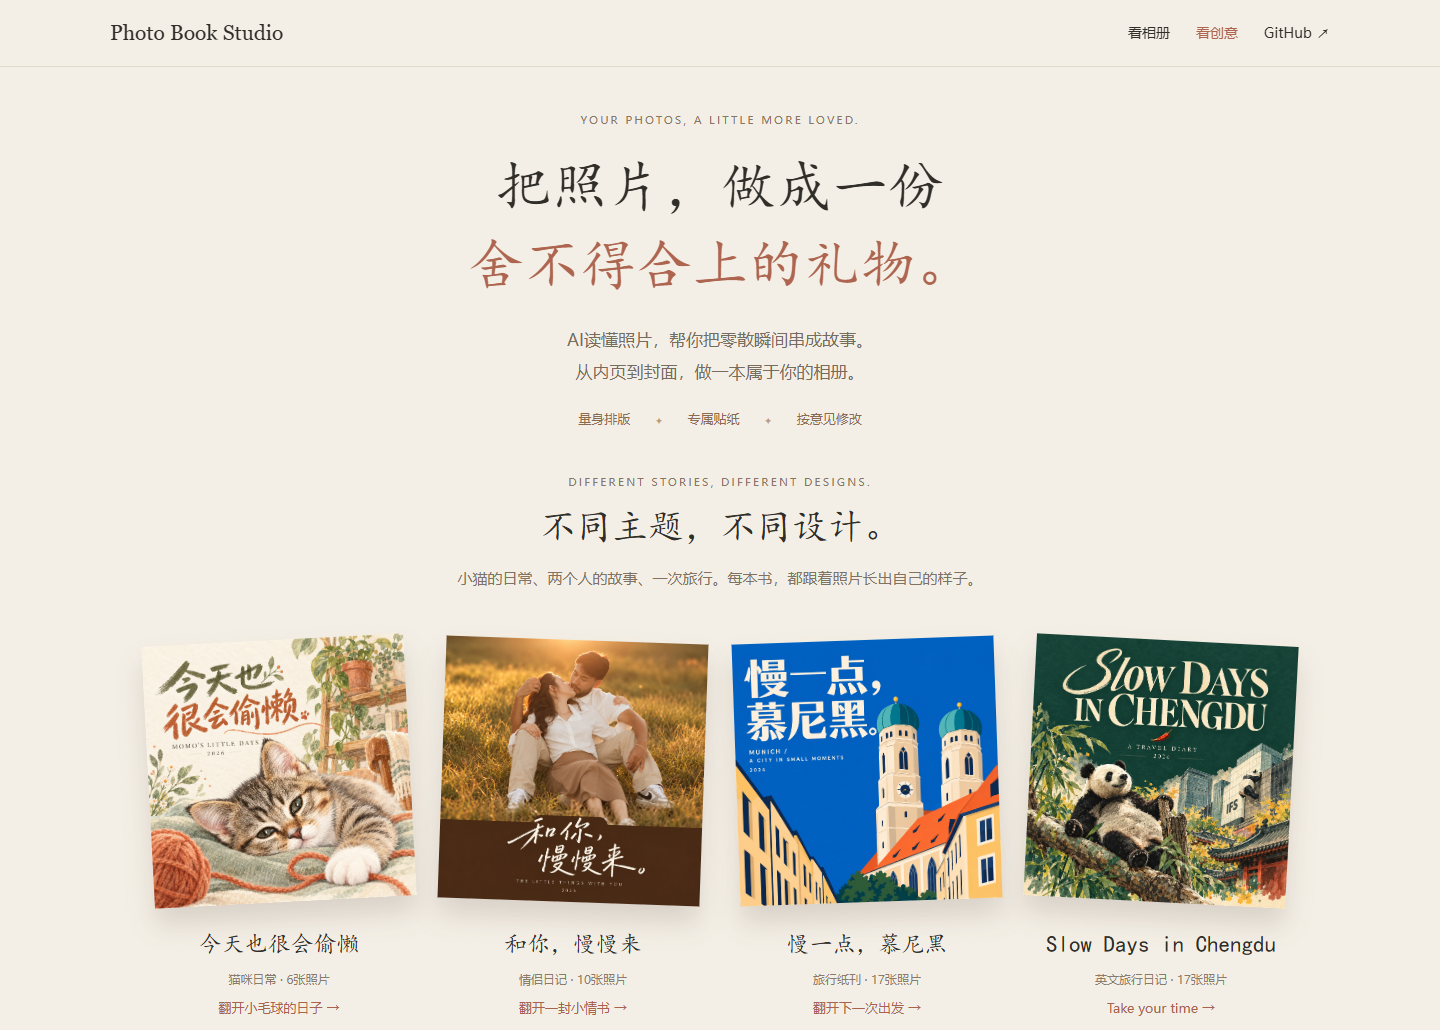
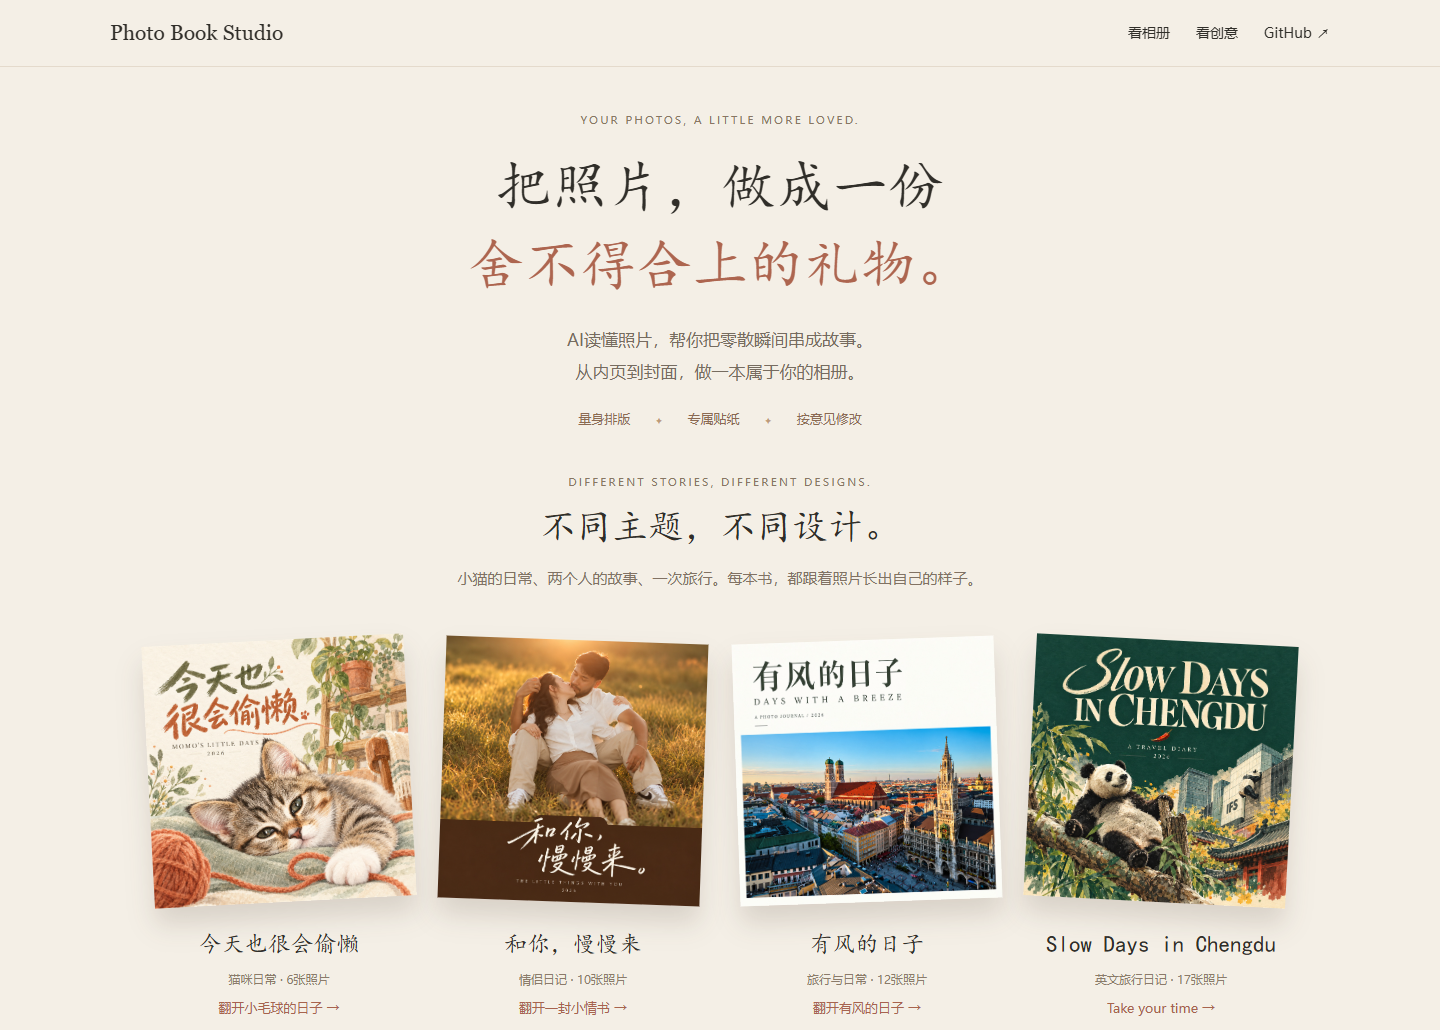
Learn photographic narrative layouts from reviewed source-fit examples

Changed region(s): [[0.5, 0.5903, 0.7188, 0.9942]]

diff --git a/docs/index.html b/docs/index.html
@@ -7,7 +7,7 @@
 @media(prefers-reduced-motion:reduce){html{scroll-behavior:auto}.book{transition:none}}
 </style></head><body><div class="header-wrap"><header><a class="brand" href="#top">Photo Book Studio</a><nav class="nav" aria-label="主导航"><a href="#books">看相册</a><a href="#creativity">看创意</a><a href="https://github.com/strivekboy-coder/photo-book-studio">GitHub ↗</a></nav></header></div><main id="top">
 <section class="hero"><div class="eyebrow">YOUR PHOTOS, A LITTLE MORE LOVED.</div><h1>把照片，做成一份<br><em>舍不得合上的礼物。</em></h1><p>AI读懂照片，帮你把零散瞬间串成故事。<br>从内页到封面，做一本属于你的相册。</p><div class="promises"><span>量身排版</span><span>专属贴纸</span><span>按意见修改</span></div></section>
-<section class="section books" id="books"><div class="eyebrow">DIFFERENT STORIES, DIFFERENT DESIGNS.</div><h2>不同主题，不同设计。</h2><p class="intro">小猫的日常、两个人的故事、一次旅行。每本书，都跟着照片长出自己的样子。</p><div class="shelf"><a class="book" href="showcase/cat/index.html"><img src="showcase/cat/cover.jpg" alt="今天也很会偷懒：猫咪相册封面"><h2>今天也很会偷懒</h2><small>猫咪日常 · 6张照片</small><span class="open">翻开小毛球的日子 →</span></a><a class="book" href="showcase/couple/index.html"><img src="showcase/couple/cover.jpg" alt="和你慢慢来：情侣相册封面"><h2>和你，慢慢来</h2><small>情侣日记 · 10张照片</small><span class="open">翻开一封小情书 →</span></a><a class="book" href="showcase/munich/index.html"><img src="showcase/munich/cover.jpg" alt="慢一点慕尼黑：旅行相册封面"><h2>慢一点，慕尼黑</h2><small>旅行纸刊 · 17张照片</small><span class="open">翻开下一次出发 →</span></a><a class="book" href="showcase/chengdu/index.html"><img src="showcase/chengdu/cover.jpg" alt="Slow Days in Chengdu：英文成都旅行日记封面"><h2>Slow Days in Chengdu</h2><small>英文旅行日记 · 17张照片</small><span class="open">Take your time →</span></a></div></section><div class="divider"></div>
+<section class="section books" id="books"><div class="eyebrow">DIFFERENT STORIES, DIFFERENT DESIGNS.</div><h2>不同主题，不同设计。</h2><p class="intro">小猫的日常、两个人的故事、一次旅行。每本书，都跟着照片长出自己的样子。</p><div class="shelf"><a class="book" href="showcase/cat/index.html"><img src="showcase/cat/cover.jpg" alt="今天也很会偷懒：猫咪相册封面"><h2>今天也很会偷懒</h2><small>猫咪日常 · 6张照片</small><span class="open">翻开小毛球的日子 →</span></a><a class="book" href="showcase/couple/index.html"><img src="showcase/couple/cover.jpg" alt="和你慢慢来：情侣相册封面"><h2>和你，慢慢来</h2><small>情侣日记 · 10张照片</small><span class="open">翻开一封小情书 →</span></a><a class="book" href="showcase/photographic-story/"><img src="showcase/photographic-story/cover.jpg" alt="有风的日子：摄影叙事相册封面"><h2>有风的日子</h2><small>旅行与日常 · 12张照片</small><span class="open">翻开有风的日子 →</span></a><a class="book" href="showcase/chengdu/index.html"><img src="showcase/chengdu/cover.jpg" alt="Slow Days in Chengdu：英文成都旅行日记封面"><h2>Slow Days in Chengdu</h2><small>英文旅行日记 · 17张照片</small><span class="open">Take your time →</span></a></div></section><div class="divider"></div>
 <section class="section zine-section" id="zine-studies"><div class="eyebrow">SAME PHOTOS, A DIFFERENT FEELING.</div><h2>同样的照片，换一种喜欢。</h2><p class="intro zine-caption">告诉AI你喜欢的风格，重新设计同一组照片。<br>12张照片，三种示范。风格由你来定。</p><div class="zine-grid"><a class="zine-card" href="showcase/zine-editorial/"><img class="zine-cover" src="showcase/zine-editorial/cover.jpg" alt="拾起日常封面" loading="lazy"><div class="zine-name"><span>极简编辑式</span><h3>拾起日常</h3></div><img class="zine-preview" src="showcase/zine-editorial/spread-03.jpg?v=050" alt="极简编辑式内页" loading="lazy"><span class="open">翻开这本 →</span></a><a class="zine-card" href="showcase/zine-collage/"><img class="zine-cover" src="showcase/zine-collage/cover.jpg" alt="把日子晒出来封面" loading="lazy"><div class="zine-name"><span>高饱和拼贴</span><h3>把日子晒出来</h3></div><img class="zine-preview" src="showcase/zine-collage/spread-04.jpg?v=050" alt="高饱和拼贴内页" loading="lazy"><span class="open">翻开这本 →</span></a><a class="zine-card" href="showcase/zine-handmade/"><img class="zine-cover" src="showcase/zine-handmade/cover.jpg" alt="把日常贴起来封面" loading="lazy"><div class="zine-name"><span>纸感手作</span><h3>把日常贴起来</h3></div><img class="zine-preview" src="showcase/zine-handmade/spread-04.jpg?v=050" alt="纸感手作内页" loading="lazy"><span class="open">翻开这本 →</span></a></div></section><div class="divider"></div>
 <section class="section creativity" id="creativity"><div class="section-heading"><div class="eyebrow">LITTLE DETAILS, MADE FOR YOUR PHOTOS.</div><h2>看看照片，还能长出什么。</h2><p class="intro">文案、贴纸、插画与背景，都从照片里的小事开始。</p></div>
 <div class="work"><aside class="annotation cat-note">专属贴纸，<br>AI看图就会画。<small>小猫、咖啡、旅行小物……<br>不用逐张交代。</small><img class="cat-sticker" src="assets/cat-note.png" alt="从猫咪照片衍生的可爱贴纸"><svg class="note-arrow" viewBox="0 0 130 64" aria-hidden="true"><path d="M8 10 C48 54 73 5 116 45 M98 40 L116 45 L111 28" fill="none" stroke="currentColor" stroke-width="2.2" stroke-linecap="round" stroke-linejoin="round"/></svg></aside><a class="work-image" href="showcase/cat/?page=2"><img src="showcase/cat/spread-03.jpg" alt="喵生大事：猫咪照片与专属手绘贴纸" loading="lazy"></a><div class="spacer"></div><div class="work-caption">一个哈欠，一次巡逻，也值得认真留一页。</div></div>

diff --git a/docs/showcase/photographic-story/index.html b/docs/showcase/photographic-story/index.html
@@ -1,0 +1,3 @@
+<!doctype html><html lang="zh-CN"><head><meta charset="utf-8"><meta name="viewport" content="width=device-width,initial-scale=1"><title>有风的日子 · Photo Book Studio</title><style>
+*{box-sizing:border-box}body{margin:0;background:#e9e3d9;color:#3a3832;font-family:system-ui,"Microsoft YaHei",sans-serif}header{display:flex;align-items:center;justify-content:space-between;gap:16px;padding:18px 5%;font-size:14px}a{color:inherit;text-decoration:none}.brand{font-family:Georgia,serif;letter-spacing:.06em}.title{font-size:15px}main{padding:24px 20px;min-height:70vh;display:grid;place-items:center}.sheet{width:min(1200px,100%);aspect-ratio:2;position:relative;overflow:hidden;background:#f5f0e7;box-shadow:0 18px 70px #463b3429}.sheet.cover{width:min(580px,100%);aspect-ratio:1}.sheet img{display:block;width:100%;height:100%;object-fit:contain}nav{display:flex;justify-content:center;align-items:center;gap:20px;padding:12px 20px 30px}button{background:#f7f1e7;border:1px solid #c8bbaa;border-radius:30px;padding:12px 21px;color:#4a4238;cursor:pointer;font-size:16px}button:disabled{opacity:.3;cursor:default}#counter{font-size:13px;min-width:110px;text-align:center}footer{max-width:880px;margin:0 auto;padding:0 24px 35px;font-size:12px;line-height:1.8;color:#7b7368;text-align:center}.mobile-help{display:none}@media(max-width:700px){header{flex-wrap:wrap}.sheet:not(.cover){aspect-ratio:1}.sheet:not(.cover) img{width:200%;max-width:none;object-fit:fill}.sheet.right img{transform:translateX(-50%)}main{min-height:0;padding:20px 12px}nav{gap:10px}.title{width:100%;font-size:19px}.mobile-help{display:block;font-size:12px;text-align:center;color:#837566}}button:focus-visible,a:focus-visible{outline:2px solid #ae6550;outline-offset:4px}</style></head><body><header><a class="brand" href="../../index.html">← PHOTO BOOK STUDIO</a><span class="title">有风的日子</span><a href="https://github.com/strivekboy-coder/photo-book-studio">GitHub ↗</a></header><main><div class="sheet cover" id="sheet"><img id="image" src="cover.jpg" alt="相册封面"></div></main><div class="mobile-help">手机上按单页阅读；点箭头，也可以左右滑动。</div><nav><button id="prev" aria-label="上一页">←</button><span id="counter"></span><button id="next" aria-label="下一页">→</button></nav><footer>效果展示相册，非真实用户故事；人物／动物关系、日期与文案为策展设定。摄影素材来自 Unsplash（含授权素材）及用户提供的授权图库。图片与相册成品仅供项目效果展示，不属于代码的 MIT 许可范围；未经许可请勿转载。<br><a href="https://github.com/strivekboy-coder/photo-book-studio/blob/codex/initial-release/examples/README.md">素材与许可说明</a></footer><script>
+const album={"title": "有风的日子", "description": "旅行与日常的摄影叙事：跨页场景、浮动插图和留白", "selectedPhotos": 12, "viewerSpreads": 5, "pages": ["spread-02.jpg", "spread-03.jpg", "spread-04.jpg", "spread-05.jpg"], "cover": "cover.jpg"};const query=new URLSearchParams(location.search);let page=Math.max(0,Math.min(album.pages.length,Number(query.get('page'))||0)),side=page>0&&query.get('side')==='right'?1:0;const media=matchMedia('(max-width:700px)');const sheet=document.getElementById('sheet'),image=document.getElementById('image');function draw(){sheet.className='sheet'+(page===0?' cover':'')+(side?' right':'');image.src=page===0?album.cover:album.pages[page-1];image.alt=page===0?album.title+'封面':album.title+' 第'+page+'跨页';document.getElementById('counter').textContent=page===0?'封面':page+' / '+album.pages.length+(media.matches?(side?' · 右页':' · 左页'):'');document.getElementById('prev').disabled=page===0;document.getElementById('next').disabled=page===album.pages.length&&(!media.matches||side===1);const upcoming=album.pages[page];if(upcoming){const img=new Image();img.src=upcoming;}}function move(delta){if(media.matches){let leaf=page===0?0:1+(page-1)*2+side;leaf=Math.max(0,Math.min(album.pages.length*2,leaf+delta));page=leaf===0?0:1+Math.floor((leaf-1)/2);side=leaf===0?0:(leaf-1)%2;}else{page=Math.max(0,Math.min(album.pages.length,page+delta));side=0;}draw();}document.getElementById('prev').onclick=()=>move(-1);document.getElementById('next').onclick=()=>move(1);document.addEventListener('keydown',e=>{if(e.key==='ArrowLeft')move(-1);if(e.key==='ArrowRight'||e.key===' ') {e.preventDefault();move(1);}});media.addEventListener('change',()=>{side=0;draw();});let touchX=null;sheet.addEventListener('touchstart',e=>touchX=e.changedTouches[0].clientX,{passive:true});sheet.addEventListener('touchend',e=>{if(touchX!==null){const d=e.changedTouches[0].clientX-touchX;if(Math.abs(d)>45)move(d<0?1:-1);}touchX=null;},{passive:true});draw();</script></body></html>

diff --git a/skills/photo-book-studio/references/photographic-layouts.md b/skills/photo-book-studio/references/photographic-layouts.md
@@ -1,0 +1,35 @@
+# Photographic narrative and spatial relationships
+
+Read for a calm photographic book, a photo-led magazine, or a reference built around panoramic anchors, floating insets, support columns and quiet text fields. These relationships also work in travel, couple and family books; this is not an exclusive theme or required zine direction.
+
+## Read the reference
+
+Gray image placeholders, upload arrows, dotted gutter guides and example captions are tutorial instructions, not decorations to copy into the finished book. Extract visual relationships and recompose with the user's source geometry and story. Do not inherit weddings, places or emotional facts from example copy.
+
+## Useful relationships
+
+- **Panoramic scene with a floating inset:** a scene anchors both pages; a bordered image bridges a quiet region and the scene. The inset adds action, time or a detail rather than merely repeating the background. Keep it clear of faces, landmarks and the physical gutter. A thin border separates tones; a stronger border can imply a collected print.
+- **Environmental hero opposite a compact detail group:** give the place or moment enough scale, then connect two or three details with shared edges or an intentional rhythm. The support field needs whitespace. Important portraits must not shrink into miniature slots to imitate a reference.
+- **Narrow photo column and a large photograph:** repeated small frames establish a reading path beside a hero and a separate text pocket. Adapt the number/proportions to content; rotate the relationship or add another spread when subjects cannot remain legible.
+- **Photo opposite quiet text:** a complete intimate image may need no stickers or companion frames. Use a modest title and readable paragraphs; long copy can become a dedicated letter page. Empty space supplies pacing.
+- **Quiet overlapping panels:** layering can feel natural in a clean book. Let a meaningful edge/overlap connect the panels while one remains dominant. Avoid unnecessary masks, rotation and heavy shadows.
+
+## Geometry decides suitability
+
+A cross-page slot is usually much wider than an ordinary landscape photograph; portraits rarely suit panoramas. Inspect the actual crop: environment, rooflines, gestures and people must remain meaningful. Adjust field height, crop position and inset position together. Filling the CSS frame proves nothing. If landmark and foreground cannot both survive, choose a taller field, another eligible source or a different composition. Never invent missing image area without permission.
+
+Use the existing spread.backgroundPhoto contract with exactly one backgroundOnly source entry. Insets keep their own selected IDs; repeated rendering is not implied. Field heights/masking need explicit workspace CSS; unknown JSON fields do not automatically work. Sources remain read-only. Center seams/trim need a separate print review; a successful browser sample is not printer approval.
+
+## Type and pacing
+
+Give titles, supporting remarks and factual notes separate roles. Centering can create a pause; side text can preserve a tall portrait. Use separate notes for long or equally ranked sentences where caption newlines would shrink later lines. Keep readable size and avoid lone final characters. Serif or sans systems are both valid; decorative English metadata is optional.
+
+An open portrait, scene with inset, detail cluster and quiet pause are available operations, not a compulsory sequence. Choose from actual aspect ratio, visual mass, source resolution and importance.
+
+## Worked study and review
+
+The independently recomposed [有风的日子 study](https://strivekboy-coder.github.io/photo-book-studio/showcase/photographic-story/) uses 12 previously authorized stock photographs, each once, across four body spreads. The initial panorama cut away too much river; increasing field height and adjusting crop retained church rooflines and river context. Its inset avoids the skyline. Figures use contain rather than destructive crops; supporting photographs leave an independent text field.
+
+Review scene completeness, inset obstruction, primary/secondary scale, reading path, empty-space purpose, body text and gutter safety. Judge source-fit before approving a reference effect. This is a same-agent worked example, not proof of independent-model performance.
+
+Reference: seven screenshots supplied by the user on 2026-10-07. Author/source unidentified. No screenshot, template file, photograph or caption from that reference is redistributed; guidance and sample layouts are independently authored from spatial relationships.

diff --git a/README.md b/README.md
@@ -10,14 +10,16 @@ AI读懂照片，把零散瞬间串成故事。结合画面里的细节与你提
 
 ## 先翻四本小书
 
-| 猫咪日常 | 情侣日记 | 慕尼黑纸刊 | 成都英文日记 |
+| 猫咪日常 | 情侣日记 | 摄影叙事 | 成都英文日记 |
 |---|---|---|---|
-| [今天也很会偷懒](https://strivekboy-coder.github.io/photo-book-studio/showcase/cat/) | [和你，慢慢来](https://strivekboy-coder.github.io/photo-book-studio/showcase/couple/) | [慢一点，慕尼黑](https://strivekboy-coder.github.io/photo-book-studio/showcase/munich/) | [Slow Days in Chengdu](https://strivekboy-coder.github.io/photo-book-studio/showcase/chengdu/) |
-| 6张照片，把家变软。 | 10张照片，把日常写成情书。 | 17张照片，把风景装进口袋。 | 17张照片，英文记录慢旅行。 |
+| [今天也很会偷懒](https://strivekboy-coder.github.io/photo-book-studio/showcase/cat/) | [和你，慢慢来](https://strivekboy-coder.github.io/photo-book-studio/showcase/couple/) | [有风的日子](https://strivekboy-coder.github.io/photo-book-studio/showcase/photographic-story/) | [Slow Days in Chengdu](https://strivekboy-coder.github.io/photo-book-studio/showcase/chengdu/) |
+| 6张照片，把家变软。 | 10张照片，把日常写成情书。 | 12张照片，用场景、细节与留白讲故事。 | 17张照片，英文记录慢旅行。 |
 
 ![猫咪相册内页：哈欠、巡逻与手绘贴纸](docs/showcase/cat/spread-03.jpg)
 
 ![情侣相册内页：回家的路与金色拥抱](docs/showcase/couple/spread-04.jpg)
+
+[![摄影叙事：跨页河景与浮动照片](docs/showcase/photographic-story/spread-03.jpg)](https://strivekboy-coder.github.io/photo-book-studio/showcase/photographic-story/?page=2)
 
 ## 同样的照片，三种 zine
 

diff --git a/skills/photo-book-studio/SKILL.md b/skills/photo-book-studio/SKILL.md
@@ -61,6 +61,8 @@ Separate subject/story, visual direction and creative treatments. A couple book 
 
 For a zine request or reference, read [zine design language](references/zine-design.md) before composing. Editorial/minimal, saturated graphic collage and tactile handmade are three worked examples, not a closed menu. Resolve the intended direction from the brief; ask a short choice only if unresolved. Save the direction in brief.visual. The bundled role-based recipes are optional starting points. This ordinary zine composition is separate from the four optional image transformations; textures, stickers and generated art may be unnecessary.
 
+For a photographic journal or a reference using panoramic anchors, floating insets, support columns or quiet text fields, read [photographic narrative layouts](references/photographic-layouts.md). These relationships work across themes and do not force a zine aesthetic. Keep tutorial arrows/placeholders out of finished output, and validate source-fit before imitating a crop.
+
 ## Typography
 
 Choose no more than three font roles for the selected direction. Handwritten/Kai, serif and playful display faces suit some books; editorial or graphic zines may use a restrained sans-serif system with scale and weight contrasts. Do not impose a handwritten face or poetic wording on every style. Variation should come from placement, scale, direction, line breaks, color, and slight rotation. Keep paragraphs rare outside dedicated writing pages and preserve a clean overall silhouette.

diff --git a/skills/photo-book-studio/runtime/AGENTS.md b/skills/photo-book-studio/runtime/AGENTS.md
@@ -21,3 +21,5 @@ Compose before decorating: establish the focal image/phrase, scale relationships
 For a zine brief, use the installed skill's references/zine-design.md. Treat editorial/minimal, saturated graphic collage and tactile handmade as worked examples, not the only supported directions. Resolve the intended direction only when unclear, and save it in brief.visual. A zine is not defined by torn paper or handwriting. Read style details on demand; local revisions reuse the saved design system. During visual review, check spatial relationships and palette/type consistency as well as crop and text correctness.
 
 Separate story/subject, visual direction and optional treatments. Do not assign a fixed look to couples, pets or travel. The intake, inventory, chronology, draft-copy, event-linked sticker review, four creative-route review, final cover and browser/completeness gates apply across styles; assess routes but generate only when suitable, permitted and available. Respect user references outside the bundled examples.
+
+For photo-led references with panoramas, floating insets, detail columns or independent text pockets, use the installed skill references/photographic-layouts.md. Extract relationships rather than tutorial arrows/template copy. Verify crop suitability and inset/gutter obstruction; choose another layout when source geometry cannot support it.

diff --git a/docs/QA.md b/docs/QA.md
@@ -20,3 +20,5 @@ The v0.4.0 archive was extracted into a separate directory and initialized succe
 The v0.4.1 studies were recomposed into three body spreads each, still 12 selected/12 placed/0 omitted. New reviewed operations include a loose fragment field, images interwoven with a sentence, a seven-photo contact field and a decorative perimeter. The heart/arc silhouette and screen-stack operations are documented candidates, not claimed as rendered samples.
 
 v0.5.0 adds a third handmade study using exactly the same 12 source IDs once each across four body spreads. Its interiors and final cover were browser-rendered and visually reviewed; existing source-linked stickers are reused. Gallery navigation was checked at desktop, tablet and phone widths, with targets clearing the sticky header. General theme/style/treatment separation is bundled; the full workflow and optional four-route assessment remain intact. No independent-model learning guarantee is claimed.
+
+v0.6.0 photographic study: 12 selected/12 placed/0 omitted across four body spreads. Interiors/cover browser-rendered and visually reviewed, including corrected panoramic crop, unobstructed inset and contain-preserved figures. One theme card replaced; old Munich reader retained for existing deep links. No print approval claimed.

diff --git a/skills/photo-book-studio/references/layouts.md b/skills/photo-book-studio/references/layouts.md
@@ -11,3 +11,5 @@ Prefer `layout: composed` for new custom pages. Supply each photo's percentage `
 Empty pages use `layout: empty`, `photos: []`. Background color can use `tone`; available base tones include cream, sky, sage, parchment, blush and white. A color not in the engine should be implemented deliberately in the renderer rather than silently assumed supported. Source-derived backgrounds use backgroundPath and opacity. Letters use paragraph-aware `letter`, not caption markup.
 
 The engine includes older custom layout classes from its development project, but they are not required for new books. Choose `composed` or a suitable existing family; don't read or repeat every legacy selector. After changing page aspect ratio, reconsider frame/caption coordinates and re-render instead of copying percentages blindly.
+
+For photographic narrative references, see photographic-layouts.md: panoramic anchor/inset, environmental hero/detail field, narrow photo column and quiet photo/text pause. These extend the starting structures without assigning one style to every book.

diff --git a/examples/README.md b/examples/README.md
@@ -17,3 +17,7 @@
 另有三本使用同一组12张授权照片的独立重排案例：极简编辑式、高饱和拼贴和纸感手作。素材从上述示例照片中复用，不新增图库授权范围。公开成品仍不含独立原素材；sources.json保留来源对应关系。故事和日期为展示设定。
 
 设计参考为 [Flipin公开示例](https://flipin.pages.dev/) 的两种视觉语言，重新构图制作；未复制或分发其模板文件、代码、照片或截图。四张其他照片的内部适配验证为同一Agent完成，不代表独立用户测试。
+
+## 摄影叙事案例
+
+有风的日子使用12张已授权图库照片，展示跨页场景、浮动照片、细节列与独立文字留白。参考为用户提供的七张版式截图；仅提炼空间关系，未复制或分发其中的模板、照片或文案。首页以此替换慕尼黑主题卡片，原慕尼黑示例仍保留供创意效果链接使用。
